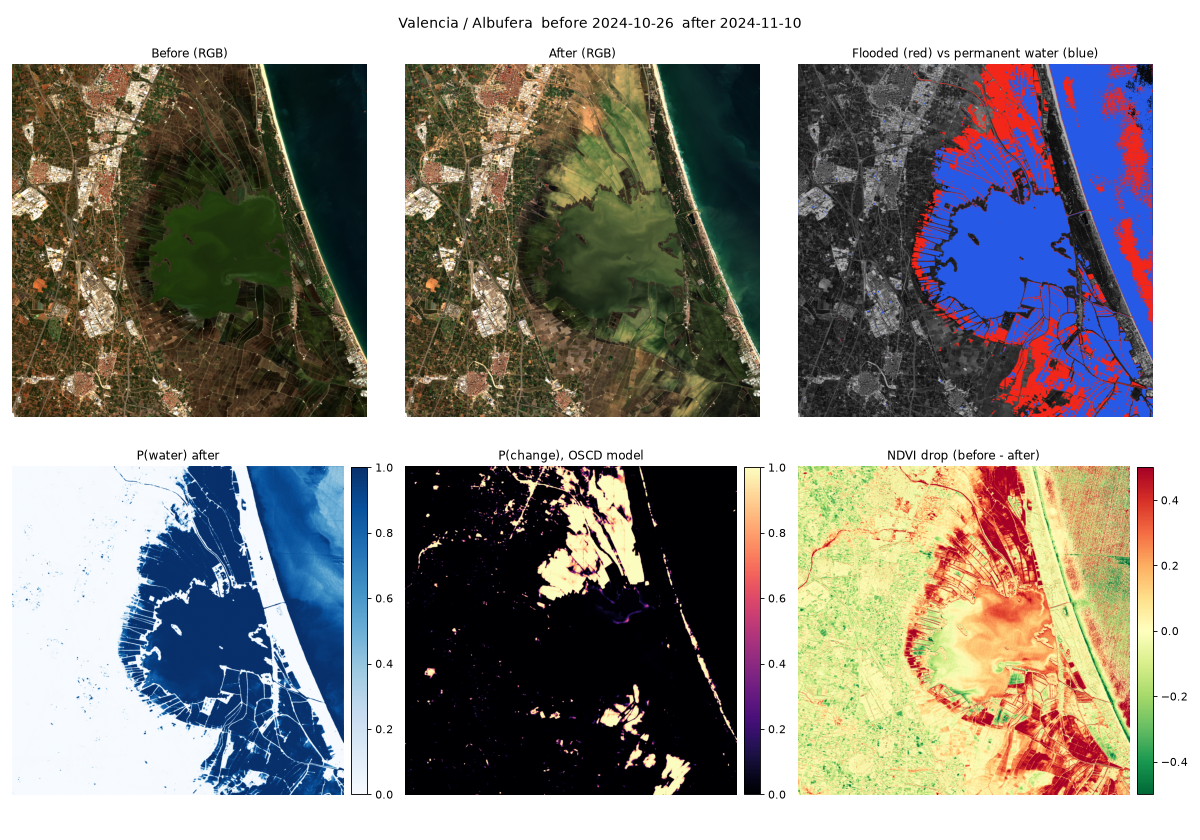
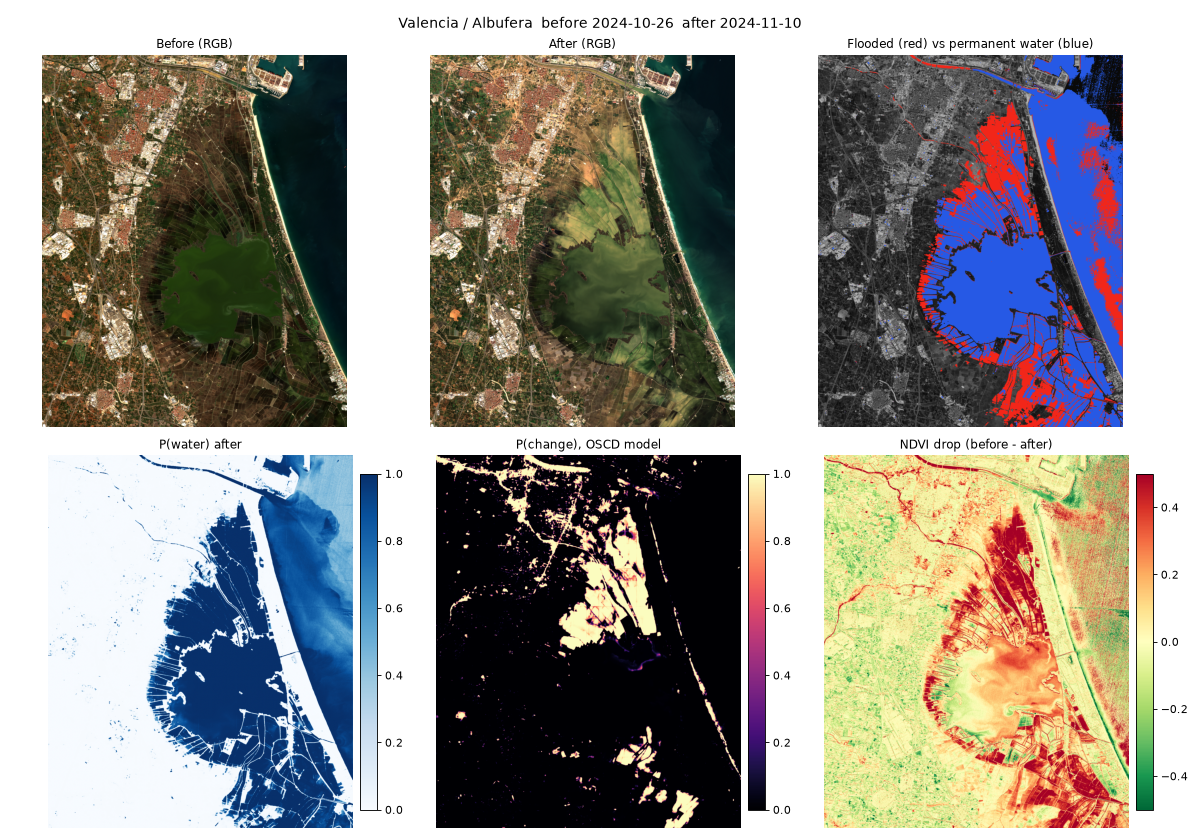
Extend AOI north to 39.44N to take in Paiporta and l'Horta Sud; re-run with the same scenes
NDVI drop rate outside paddies: Paiporta 42%, Sedavi 41%, Alfafar 37%, Massanassa 31% vs 2-3%
in Silla, Sollana, Benifaio, Almussafes, Picassent. Maps, town table and GEO.md updated.

diff --git a/tests/test_stac.py b/tests/test_stac.py
@@ -70,11 +70,12 @@ def test_load_aoi_accepts_feature_collection_and_bare_geometry(tmp_path):
     assert load_aoi(fc).equals(poly)
 
 
-def test_repo_aoi_is_about_15km():
+def test_repo_aoi_is_about_15_by_19km():
+    # ~15 km wide; ~19 km tall since the north edge moved to 39.44 N to take in Paiporta
     aoi = load_aoi("aoi/valencia_albufera.geojson")
     grid = make_grid(aoi, UTM)
     assert 13_000 < grid.width * 10 < 17_000
-    assert 13_000 < grid.height * 10 < 17_000
+    assert 17_000 < grid.height * 10 < 21_000
 
 
 def test_make_grid_is_snapped_and_covers_aoi(aoi_file):

diff --git a/docs/GEO.md b/docs/GEO.md
@@ -25,7 +25,7 @@ Outputs (gitignored, under `data/processed/valencia_albufera/`):
    confidence. **OSM** via Overpass (`geo/osm.py`), cached in `data/raw/osm/`: land use,
    municipalities (admin_level 8) and the coastline. **Land mask**: the AOI is cut along the
    OSM `natural=coastline` ways (OSM draws them with land on the left); the sea side enters no
-   total. Cross-check: 99.6% of that sea is MNDWI water on the before date.
+   total. Cross-check: 98.7% of that sea is MNDWI water on the before date.
 5. **Spatial SQL** (`geo/sql/rollup.sql`, all in EPSG:32630 metres):
    - exclusive land cover per type (OSM polygons overlap; priority rice_paddy > water >
      residential > industrial > orchard > farmland > wetland > other; rest of the land =
@@ -41,74 +41,89 @@ Outputs (gitignored, under `data/processed/valencia_albufera/`):
 
 ## Valencia results (before 2024-10-26, after 2024-11-10)
 
-AOI 22,327 ha: 16,747 ha land, 2,656 ha inland water (Albufera lake, canals), 2,923 ha sea.
+AOI: -0.457 to -0.283 E, 39.273 to 39.440 N (the north edge was moved up from 39.407 to take in
+Paiporta and the other l'Horta Sud towns; re-fetching picked the same two scenes). 27,819 ha:
+20,757 ha land, 2,785 ha inland water (Albufera lake, canals, the Turia channel), 4,277 ha sea.
 
 | impact (on land) | hectares | what it means |
 |---|---|---|
-| Standing water (new water) | 1,961 | 98% of it (1,920 ha) is in rice paddies: confounded, see below |
-| ...outside rice paddies | 41 | |
-| Vegetation loss / likely mud (NDVI drop outside paddies) | 320 | candidate damage footprint |
-| NDVI drop inside paddies (not counted above) | 506 | harvest / paddy flooding, ambiguous |
-| Change on urban land (OSCD model) | 60 | 44 ha industrial, 15 ha residential |
-| *Excluded: sea "flooded"* | *655* | *model domain gap on the before date; never in a total* |
+| Standing water (new water) | 2,104 | 98% of it (2,059 ha) is in rice paddies: confounded, see below |
+| ...outside rice paddies | 45 | |
+| Vegetation loss / likely mud (NDVI drop outside paddies) | 643 | candidate damage footprint |
+| NDVI drop inside paddies (not counted above) | 542 | harvest / paddy flooding, ambiguous |
+| Change on urban land (OSCD model) | 222 | 163 ha industrial, 59 ha residential |
+| *Excluded: sea "flooded"* | *688* | *model domain gap on the before date; never in a total* |
 
-**Day 12 is too late for water.** The DANA hit on Oct 29. By Nov 10 the standing water in the
-towns west of the lake had drained and left mud, so a water detector correctly finds almost
-nothing there (41 ha outside paddies). The remaining new water is in the paddies.
+**Day 12 is too late for water.** The DANA hit on Oct 29. By Nov 10 the standing water in
+l'Horta Sud had drained and left mud, so a water detector correctly finds almost nothing in the
+towns (under 1.5 ha of new water outside the paddies in each of Paiporta, Sedaví, Alfafar and
+Massanassa). The
+remaining new water is in the paddies.
 
-**The damage shows up as vegetation loss on the Barranco del Poyo towns.** NDVI drop as a share
-of each town's vegetated land outside the paddies (towns with >= 50 ha vegetated):
+**The damage shows up as vegetation loss along the Barranco del Poyo.** NDVI drop as a share of
+each town's vegetated land outside the paddies (towns with >= 50 ha vegetated in the AOI):
 
 | town | vegetated ha (outside paddies) | NDVI drop ha | rate |
 |---|---|---|---|
-| Massanassa | 87 | 26 | **29%** |
+| Paiporta | 167 | 69 | **42%** |
+| Sedaví | 55 | 22 | **41%** |
+| Alfafar | 157 | 58 | **37%** |
+| Massanassa | 122 | 37 | **31%** |
 | Beniparrell | 188 | 30 | **16%** |
-| Catarroja | 313 | 49 | **16%** |
+| Catarroja | 510 | 68 | **13%** |
 | Albal | 344 | 36 | **10%** |
+| València (southern districts) | 1,722 | 164 | 9.5% |
+| Picanya (62% of it in the AOI) | 310 | 29 | 9.3% |
 | Alcàsser | 490 | 27 | 5.5% |
-| València (southern part) | 1,241 | 57 | 4.6% |
 | Almussafes | 395 | 12 | 3.0% |
 | Silla | 934 | 23 | 2.5% |
 | Benifaió | 675 | 17 | 2.5% |
 | Sollana | 528 | 12 | 2.2% |
+| Torrent (8% of it in the AOI) | 392 | 8 | 2.0% |
 | Picassent | 1,177 | 22 | 1.9% |
 
-The four towns on the Poyo's path to the lake lose vegetation at 10-29%. Similar huerta towns to
-the south and west sit at 2-3%, five to ten times lower. On the map the orange is concentrated in
-the north of the AOI and in strips running toward the lake. This is consistent with mud
-deposits and flattened vegetation, but NDVI alone can't prove it: harvest, ploughing and pruning
-also drop NDVI, and mud on streets and roofs is invisible here because that ground was not
-vegetated before. Most of the drop (211 of 320 ha) is on land OSM has no land-use tag for, so
-the per-class split is weaker than the per-town one.
+Benetússer (11 ha vegetated) and Sueca (35 ha in the AOI) are too small to rank.
+
+Paiporta, where the Poyo overflowed, has the highest rate, followed by the towns downstream of it
+on the way to the lake (Sedaví, Alfafar, Massanassa) at 31-41%. Similar huerta towns to the south
+and west (Silla, Sollana, Benifaió, Almussafes, Picassent) sit at 2-3%, ten to twenty times
+lower. On the map the orange is concentrated around Paiporta and in the strip between the towns
+and the lake. The OSCD change on urban land follows the same towns: Paiporta 34 ha, Alfafar
+33 ha, Catarroja 29 ha, Massanassa 22 ha, against 1-2 ha in Silla, Picassent and Almussafes.
+
+This is consistent with mud deposits and flattened vegetation, but NDVI alone can't prove it:
+harvest, ploughing and pruning also drop NDVI, and mud on streets and roofs is invisible here
+because that ground was not vegetated before. Most of the drop (422 of 643 ha) is on land with no
+OSM land-use tag, so the per-class split is weaker than the per-town one. Urban change is not
+damage by itself either: the Port of València (134 ha of industrial land in the AOI) adds about
+21 ha of "change" from ships and containers moving.
 
 ![NDVI drop by town](images/valencia_ndvi_drop.png)
 
-**The AOI misses the worst-hit towns.** The AOI's north edge is 39.407 N. Only Albal and the
-southern part of Catarroja's centre are inside. Paiporta (39.428 N), Picanya (39.435), Massanassa
-(39.411), Alfafar (39.420), Benetússer (39.423) and Sedaví (39.425) are all north of it; their
-municipal land inside the AOI is mostly paddy and lake shore. They lie north, not west: the west
-edge (-0.457) already covers them in longitude. Extending the north edge to about 39.44 N
-(+3.7 km) would bring all of them in.
+**AOI coverage.** Paiporta, Sedaví, Alfafar, Massanassa, Benetússer, Catarroja and Albal are now
+96-100% inside the AOI. Picanya is 62% inside and Torrent 8%; both reach further west and north.
+Aldaia, Alaquàs, Xirivella and the rest of València's city districts are outside.
 
 **Known confound: rice paddies.** Albufera paddies are flooded on purpose in late autumn and
-winter. 41.0% of paddy area was already water on Oct 26 (three days BEFORE the Oct 29 DANA) and
-69.9% on Nov 10. The DANA floodwater also drained into the Albufera through l'Horta Sud, so the
+winter. 39.0% of paddy area was already water on Oct 26 (three days BEFORE the Oct 29 DANA) and
+68.4% on Nov 10. The DANA floodwater also drained into the Albufera through l'Horta Sud, so the
 extra paddy water can be either cause, and two optical dates cannot tell them apart. That is why
 the paddies are a flagged confound rather than counted as damage or as farming.
 The paddies are reported separately (`rice_paddies` in the summary, `seasonal_flooding_flag` per
-plot), never dropped. The OSCD change model also fires on the paddies (1,892 ha of its change), as
+plot), never dropped. The OSCD change model also fires on the paddies (2,025 ha of its change), as
 expected for a model trained on urban change: flooding a field is a big visual change.
 
 **Sanity check (model vs water indices on Valencia, IoU of the water masks):**
 
-| date | NDWI > 0 | MNDWI > 0 | MNDWI > 0.15 |
-|---|---|---|---|
-| before | 0.78 | 0.84 | 0.85 |
-| after | 0.90 | 0.95 | 0.95 |
+| date | NDWI > 0 | MNDWI > 0 | MNDWI > 0.15 | MNDWI > 0, land only | MNDWI > 0, sea only |
+|---|---|---|---|---|---|
+| before | 0.79 | 0.84 | 0.85 | 0.86 | 0.82 |
+| after | 0.86 | 0.91 | 0.91 | 0.94 | 0.87 |
 
-Agreement is high, so the L1C-train / L2A-inference gap does not break the model overall. It does
-show up in one place: part of the **open sea on Oct 26** gets P(water) ~0.37 from the model while
-MNDWI there is 0.74 (clearly water). That sea strip then looks "flooded" on Nov 10 (655 ha).
+On land the agreement is high, so the L1C-train / L2A-inference gap does not break the model
+there. It shows up at sea: the model under-calls dark open water (part of the **open sea on
+Oct 26** gets P(water) ~0.37 while MNDWI is 0.74, clearly water), and the extended AOI adds more
+sea and the Port of València. That sea strip then looks "flooded" on Nov 10 (688 ha).
 The OSM coastline mask puts it in the `sea` class, so it enters no total and no hotspot; it is
 kept under `excluded` in the summary as a diagnostic.
 
